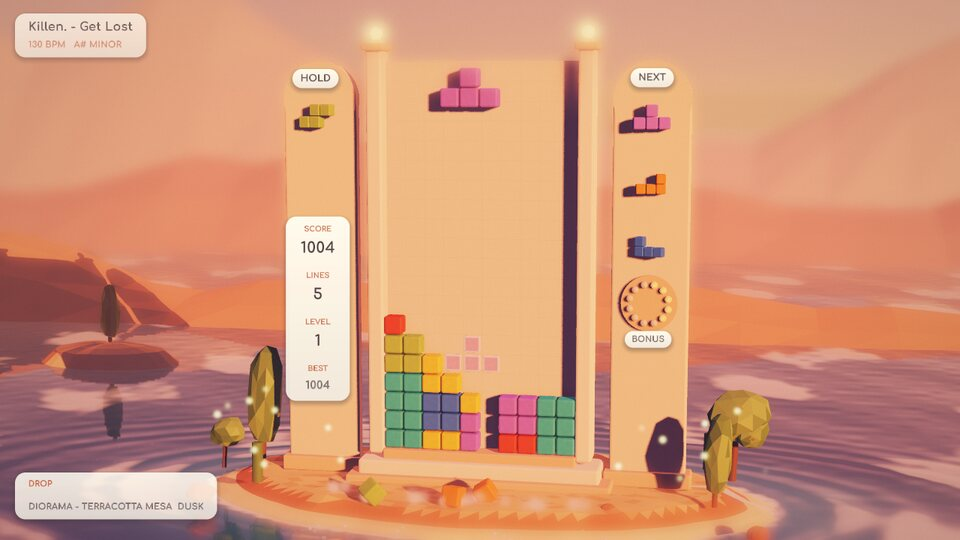
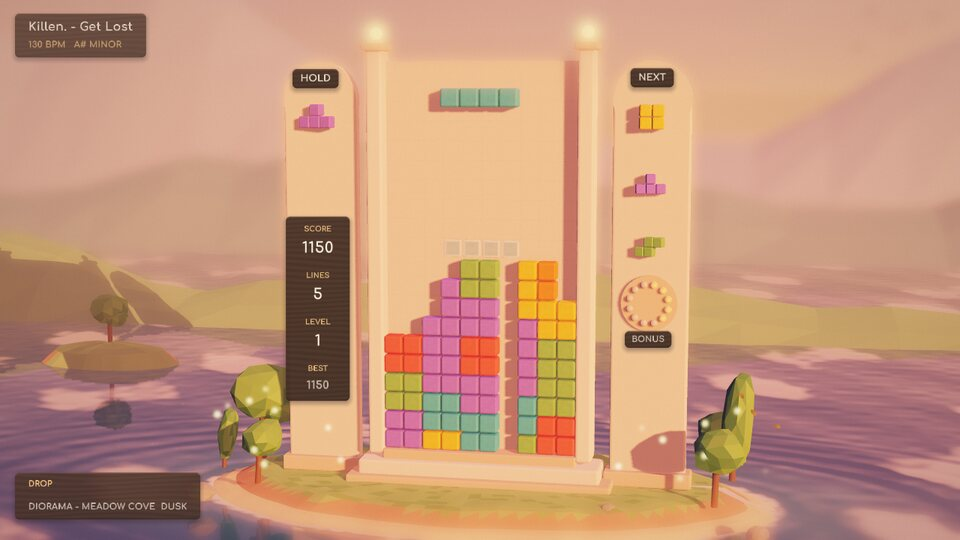
DIORAMA: plaque bevel follows the rim (no seam across the middle); caption and picture updated
Claude-Session: https://claude.ai/code/session_01DBPtRFs6M8Q4o53Qj6BCRE

diff --git a/src/universes/diorama/shaders.hpp b/src/universes/diorama/shaders.hpp
@@ -517,7 +517,11 @@ void main() {
         float g2 = sin(vUV.y * 2.3 + vUV.x * 0.013) * 0.5 + 0.5;
         c *= 0.9 + 0.12 * g + 0.06 * g2;
         float edge = smoothstep(-uWood * 2.2, -0.5, d);
-        c = mix(c, c * (vUV.y < 0.0 ? 1.55 : 0.7), edge * 0.8);
+        // the rim's outward direction: lit along the top, shaded along the bottom, neutral on the sides
+        vec2 q = abs(vUV) - uHalf + uRadius, s = sign(vUV);
+        vec2 nn = (q.x > 0.0 && q.y > 0.0) ? normalize(q) * s : (q.x > q.y ? vec2(s.x, 0.0) : vec2(0.0, s.y));
+        float k = nn.y < 0.0 ? mix(1.0, 1.55, -nn.y) : mix(1.0, 0.7, nn.y);
+        c = mix(c, c * k, edge * 0.8);
     }
     float outA = a + sa * (1.0 - a);
     vec3 outC = (c * a + uShadowCol * sa * (1.0 - a)) / max(outA, 1e-4);

diff --git a/docs/universes.md b/docs/universes.md
@@ -26,7 +26,7 @@ Ink on washi paper. Eight inks (SUMI & SHU, AIZOME & OCHRE, SEPIA & CELADON, MUR
 
 ![DIORAMA](universes/diorama.jpg)
 
-A sunlit clay miniature, the well a tower on a small island in a still sea. Twelve places, from the key and mode: nine by day (MEADOW COVE, TERRACOTTA MESA, LAVENDER SNOW, PINE AND SEA, AUTUMN MAPLES, MANGO LAGOON, SAKURA STONES, JADE VOLCANO, HEATHER HIGHLANDS), where the song's phases are times of day (dawn, day, golden hour, dusk) and slow motion is a moonlit night; and three by night (MOONLIT COVE, LANTERN HARBOR, FIREFLY FJORD), the tower's lanterns lit, where the phases move the moon across the sky (moonrise, midnight, starlight) and slow motion is a still night (time stands still: a silver moon, an aurora on the horizon, the blocks lit like lanterns). Cleared blocks pop off the tower and shrink away as they tumble; a landing pushes one puff of dust out from under the piece. The HUD sits on small dark wooden plaques in cream lettering; its font is Comfortaa (SIL Open Font License, `src/universes/diorama/OFL-Comfortaa.txt`).
+A sunlit clay miniature, the well a tower on a small island in a still sea. Twelve places, from the key and mode: nine by day (MEADOW COVE, TERRACOTTA MESA, LAVENDER SNOW, PINE AND SEA, AUTUMN MAPLES, MANGO LAGOON, SAKURA STONES, JADE VOLCANO, HEATHER HIGHLANDS), where the song's phases are times of day (dawn, day, golden hour, dusk) and slow motion is a moonlit night; and three by night (MOONLIT COVE, LANTERN HARBOR, FIREFLY FJORD), the tower's lanterns lit, where the phases move the moon across the sky (moonrise, midnight, starlight) and slow motion is a still night (time stands still: a silver moon, a green glow on the horizon, the blocks lit like lanterns). Cleared blocks pop off the tower and shrink away as they tumble; a landing pushes one puff of dust out from under the piece. The HUD sits on small dark wooden plaques in cream lettering; its font is Comfortaa (SIL Open Font License, `src/universes/diorama/OFL-Comfortaa.txt`).
 
 ## PIXEL
 
